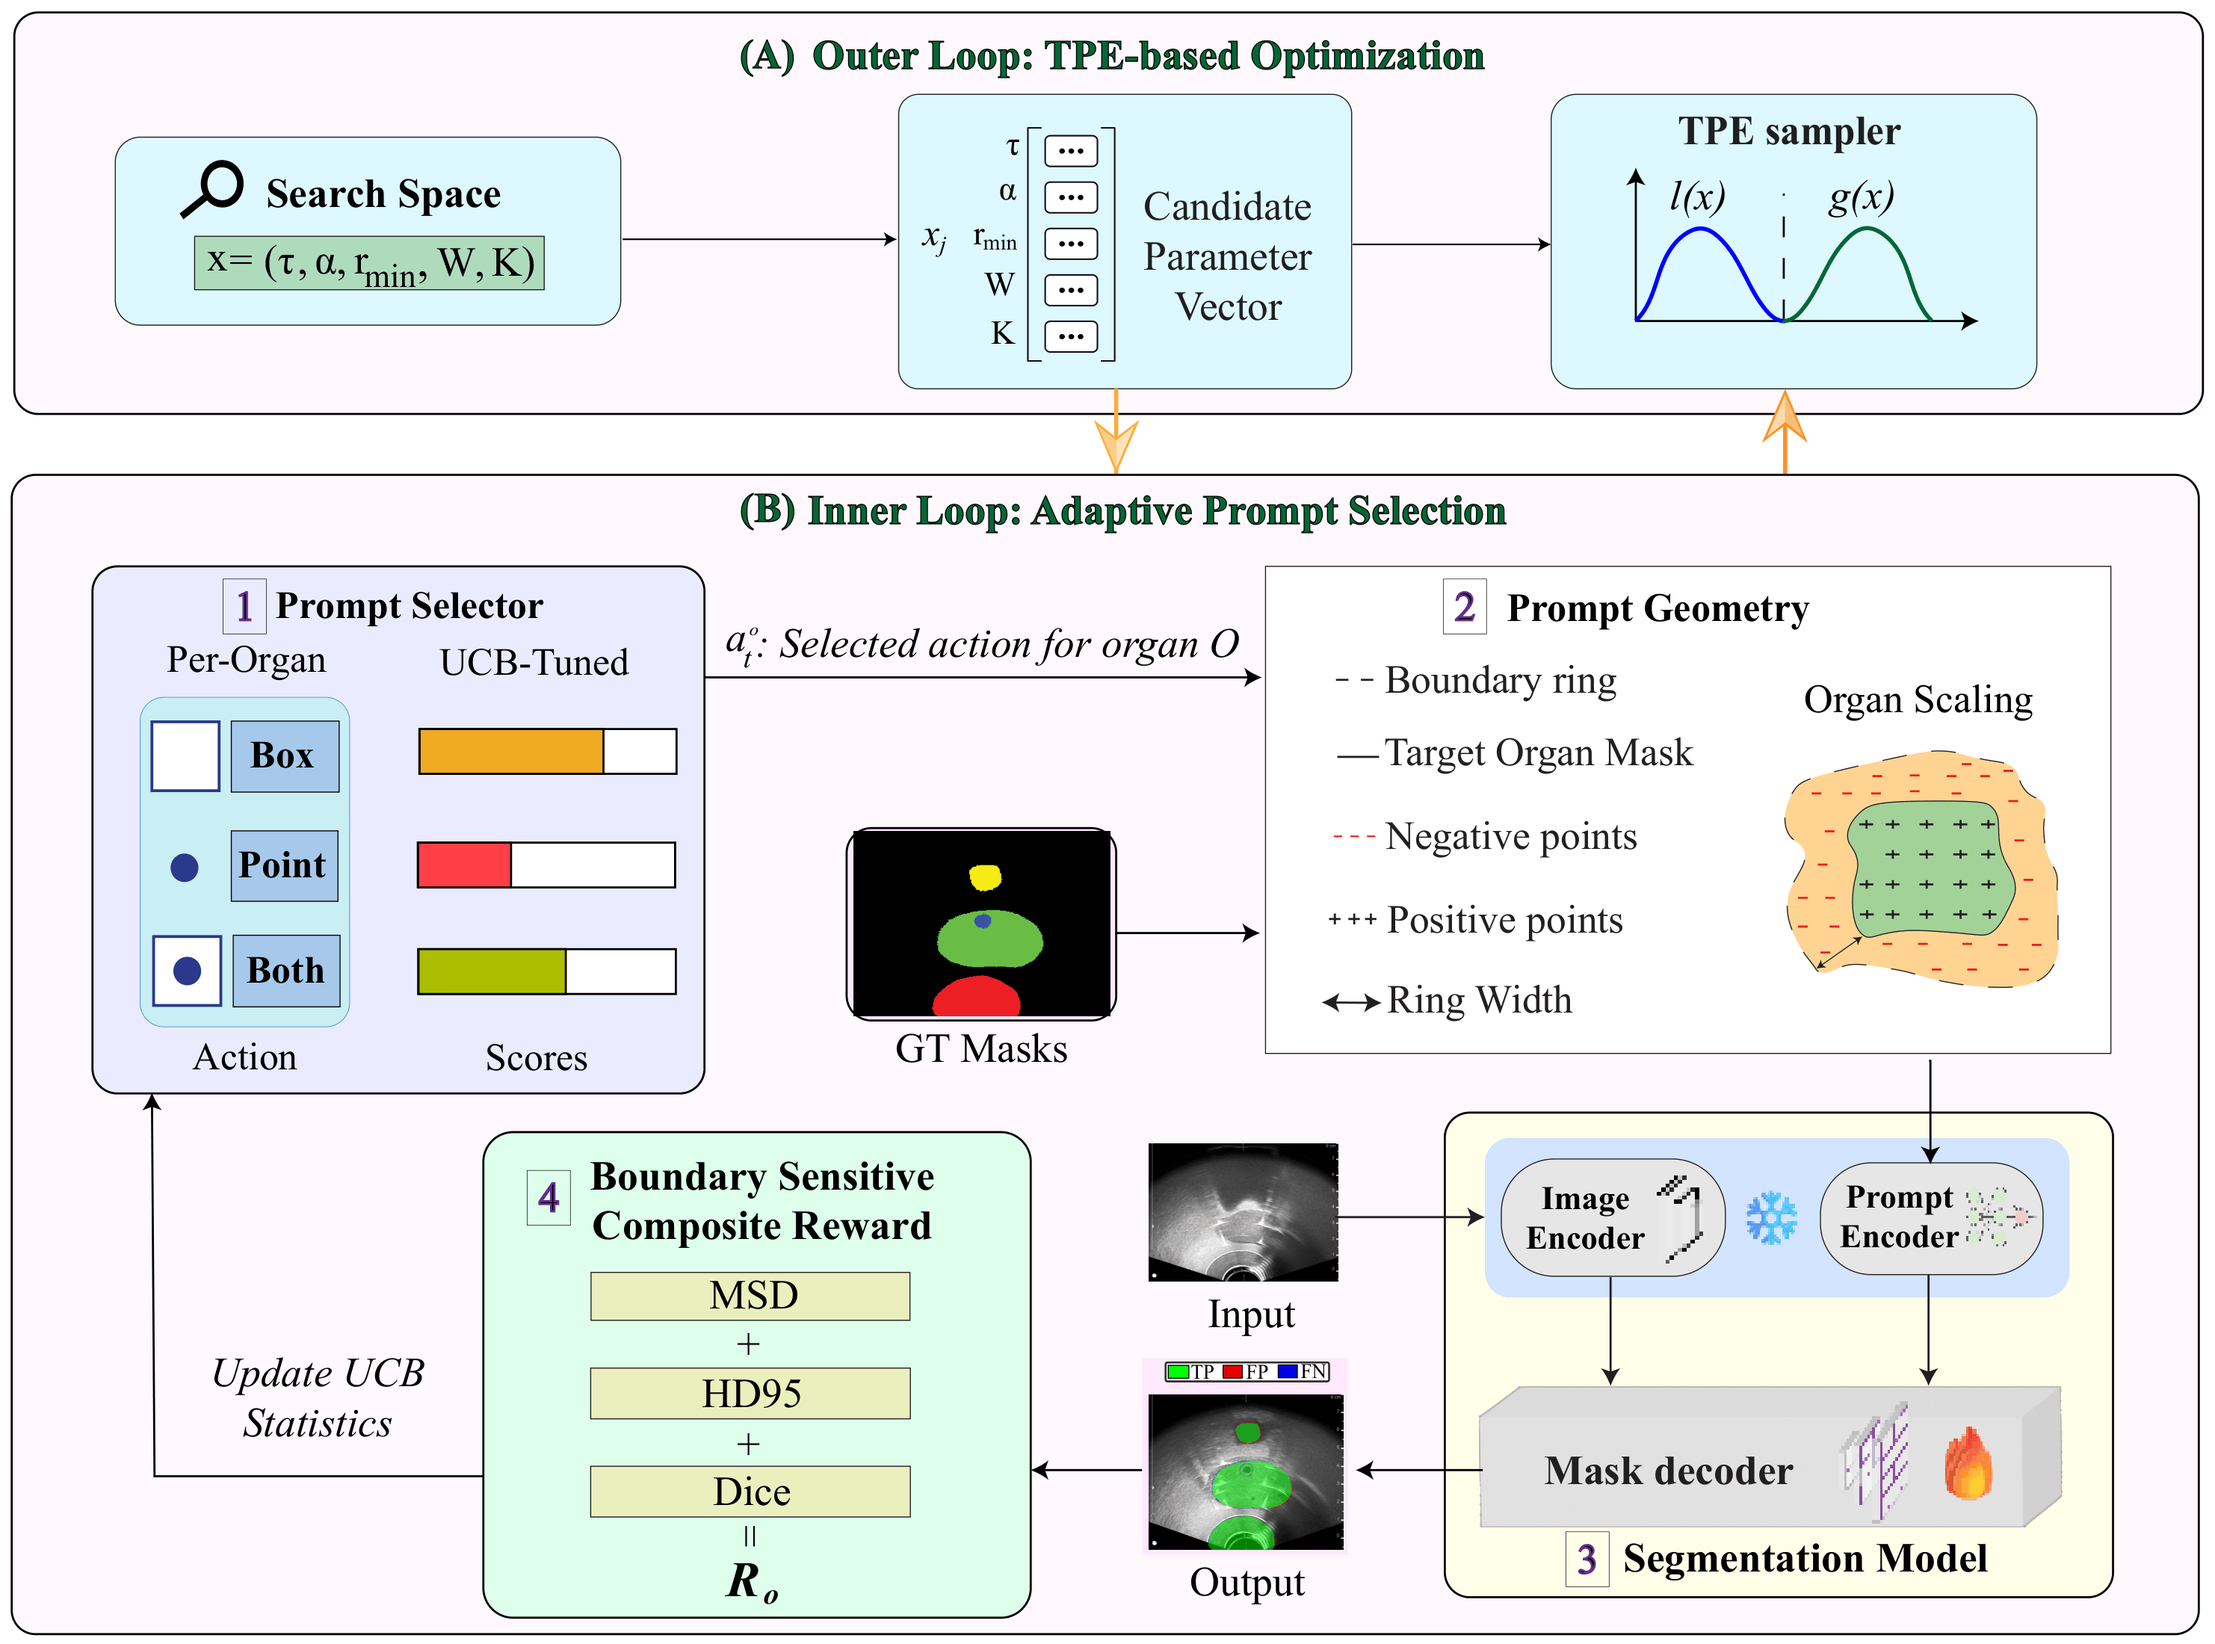
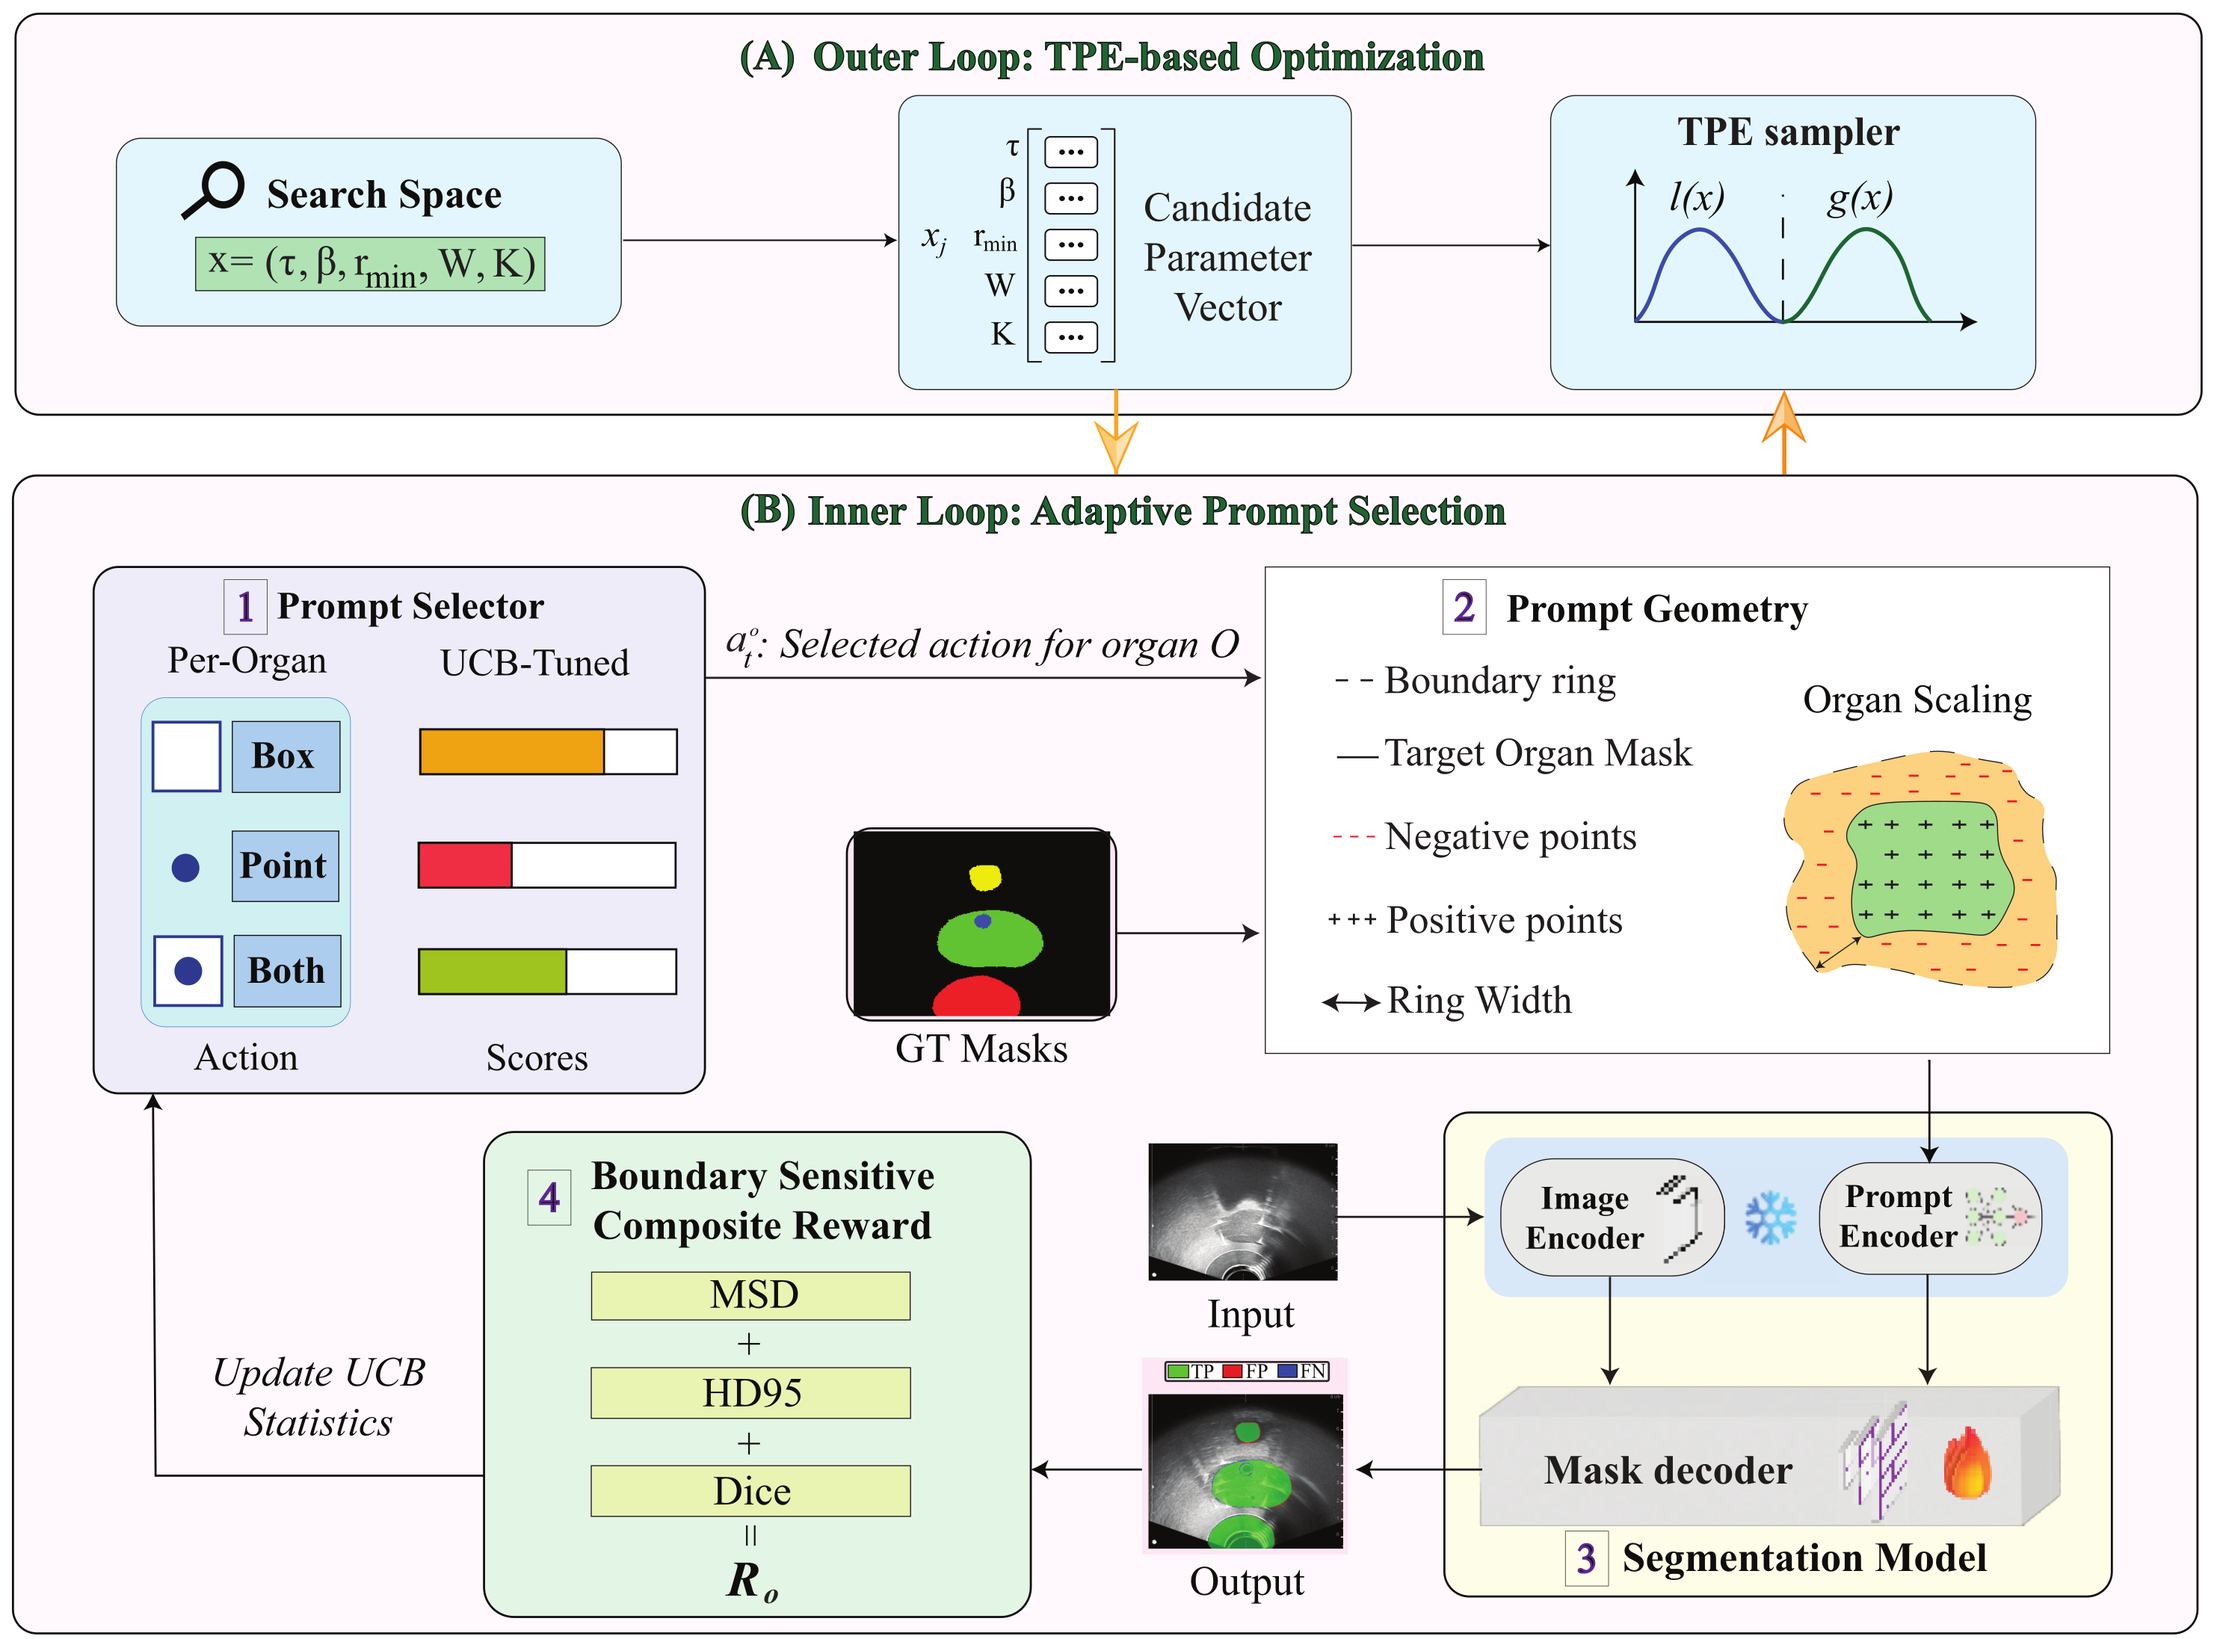
docs: use the paper's updated framework figure and the β notation for the ring scale

diff --git a/docs/INNER_OUTER_LOOP.md b/docs/INNER_OUTER_LOOP.md
@@ -19,11 +19,11 @@ Commands for both loops are in [`RUNNING.md`](RUNNING.md).
 | Decision block | Each organ's action is held for K training batches. | `bandit.block_size_batches` | `src/bapmos/method/bandit_policy.py` |
 | Probe | After each block, a fixed validation probe (20 images, seed 42) scores the block's actions. | `bandit.probe_size`, `bandit.probe_seed` | `src/bapmos/method/bap_mos_trainer.py` |
 | Reward | Composite reward bounded in [0, 1] (formula below), τ = clip, λ = 3. | `reward.mode: composite_fixed_clip`, `reward.clip_max_mm`, `reward.hd95_lambda` | `src/bapmos/method/reward.py` |
-| Point prompt | 1 positive point inside the organ, 3 negatives from the ring Ω_o = dilate(M_o, r_o) \ M_o with r_o = max(r_min, ⌊α√A_o⌋). If no valid ring exists, the point action falls back to a box. | `prompt_geometry.ring_mode: scale_organ`, `prompt_geometry.alpha`, `prompt_geometry.r_min`, `prompt_geometry.num_pos`, `prompt_geometry.num_neg` | `src/bapmos/method/prompt_geometry.py` |
+| Point prompt | 1 positive point inside the organ, 3 negatives from the ring Ω_o = dilate(M_o, r_o) \ M_o with r_o = max(r_min, ⌊β√A_o⌋). If no valid ring exists, the point action falls back to a box. | `prompt_geometry.ring_mode: scale_organ`, `prompt_geometry.alpha`, `prompt_geometry.r_min`, `prompt_geometry.num_pos`, `prompt_geometry.num_neg` | `src/bapmos/method/prompt_geometry.py` |
 | Box prompt | Organ bounding box with a small random expansion during training (2 px prostate, 10 px PFUS1). | `prompt_geometry.box_jitter_px` | `src/bapmos/method/prompt_geometry.py` |
 | Loss | α(t)·[CE + mean Dice] + (1 − α(t))·boundary loss on signed distance maps; α falls linearly from 1.0 to 0.5. | `training.loss_mode: kervadec`, `training.kervadec.*` | `src/bapmos/losses/kervadec_style.py` |
 | Checkpoint and search objective | Fold-balanced (5 folds, seed 42) validation MSD on the primary organ: PTV for prostate, Bladder for PFUS1. | `evaluation.objective_metric: ptv_kfold_msd`, `evaluation.kfold_n`, `evaluation.kfold_seed` | `src/bapmos/metrics/checkpoint_selection.py` |
-| Search space | τ ∈ [5, 30] (integer), α ∈ [0.05, 0.15], r_min ∈ [2, 20], W ∈ {20, 25, …, 100}, K ∈ {20, 25, …, 100} | `reward.clip_max_mm`, `prompt_geometry.alpha`, `prompt_geometry.r_min`, `bandit.window_size`, `bandit.block_size_batches` | `src/bapmos/hpo/search_space.py` |
+| Search space | τ ∈ [5, 30] (integer), β ∈ [0.05, 0.15], r_min ∈ [2, 20], W ∈ {20, 25, …, 100}, K ∈ {20, 25, …, 100} | `reward.clip_max_mm`, `prompt_geometry.alpha`, `prompt_geometry.r_min`, `bandit.window_size`, `bandit.block_size_batches` | `src/bapmos/hpo/search_space.py` |
 | Search | Optuna TPE, 100 trials. The first 20 are a fixed start-up catalog (1 baseline + 19 Latin-hypercube samples, seed 42) that `study_runner init` enqueues. | suite spec | `src/bapmos/hpo/study_runner.py`, `src/bapmos/hpo/startup_catalog.py` |
 | Evaluation grid | Every method is scored on the native reference grid with physical spacing (mm for TRUS, pixel units for PFUS1). | — | `src/bapmos/metrics/evaluation_grid.py` |
 

diff --git a/docs/SEARCH_METHODS.md b/docs/SEARCH_METHODS.md
@@ -6,7 +6,7 @@ defined in `src/bapmos/hpo/search_space.py`):
 | Key | Role | Range |
 |-----|------|-------|
 | `clip_max_mm` | Reward clip τ | integer in [5, 30] |
-| `alpha` | Ring scale α | [0.05, 0.15] |
+| `alpha` | Ring scale β (config key `alpha`) | [0.05, 0.15] |
 | `r_min` | Ring floor r_min (px) | integer in [2, 20] |
 | `window_size` | Sliding reward window W | {20, 25, …, 100} |
 | `block_size_batches` | Decision block K (batches) | {20, 25, …, 100} |
